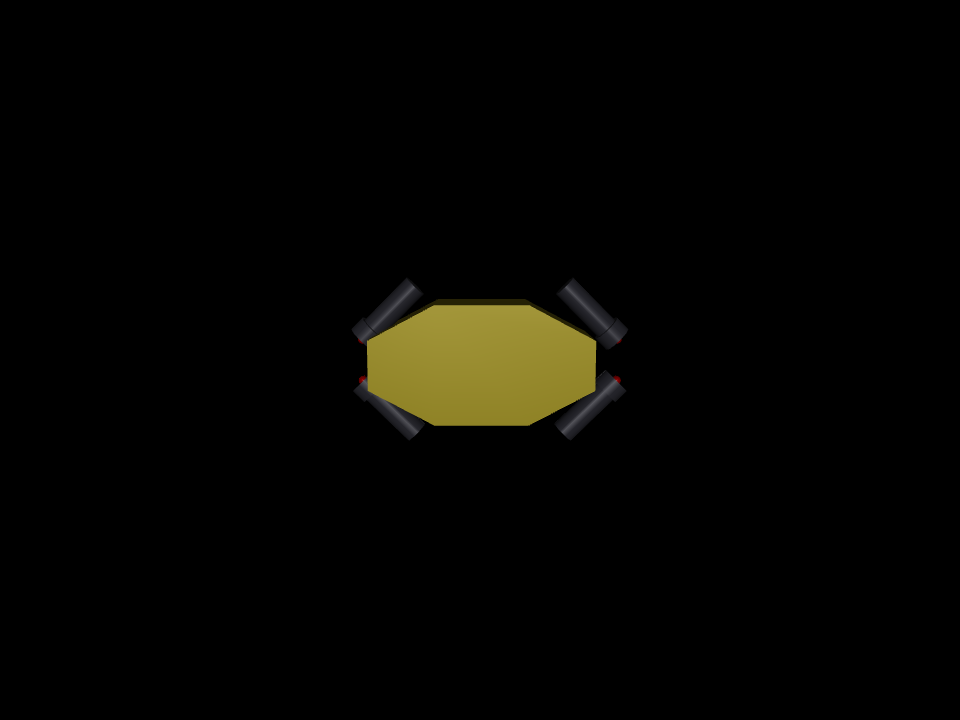
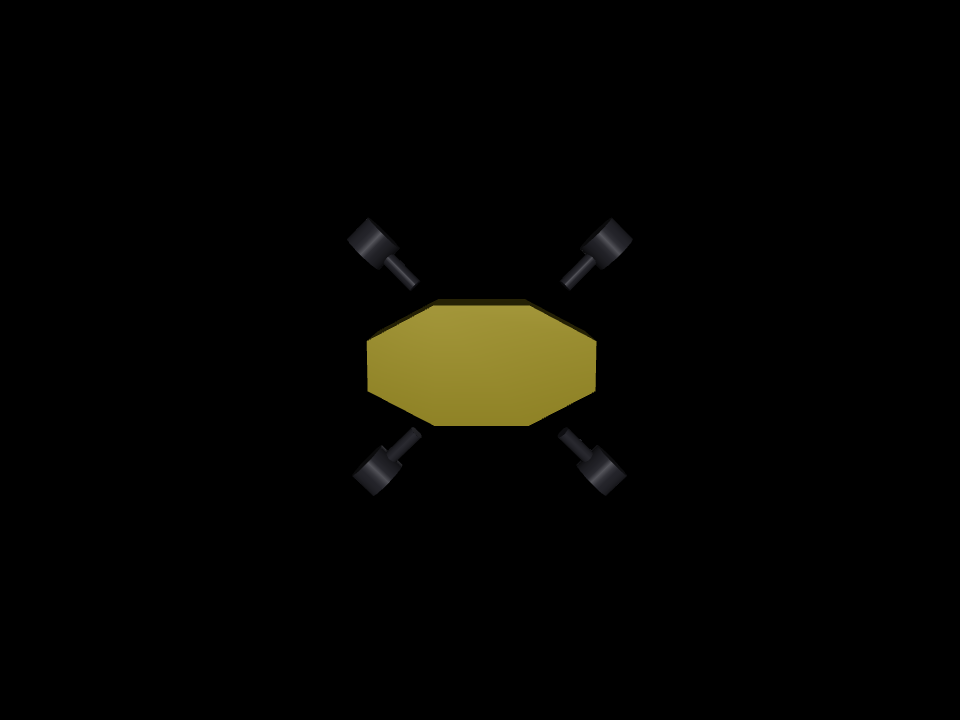
sim: faithful azimuth-thruster remodel (T-shaped ducted prop)
Verified the real mechanism against sinsei_umiusi_control's FeedForward
allocation (phi = atan(f_v/f_h)): the servo tilts each thruster's thrust
between HORIZONTAL tangential (servo=0) and VERTICAL (servo=+90, up); the
horizontal component drives surge/sway/yaw, the vertical drives heave/roll/
pitch (all f_h feed yaw equally -> horizontal dir is tangential, not radial).

Remodel from the CAD (thruster_link.stl inspected; placement.txt joints):
- Each thruster body at its measured servo joint; hinge axis = the mounting ARM
  (joint->prop, ~0.15 m, 45deg outboard + ~7deg up), sign chosen so +servo=up.
- T-shape primitives: an arm cylinder to the prop + a ducted-prop barrel
  perpendicular (along the neutral tangential thrust). Thrust site at the prop.
- Per-thruster neutral thrust_axis (tangential horizontal) in config; simulator
  applies thrust per-unit (rotated by the servo via the body frame).
- validate_sim thrust/servo checks updated to the new geometry; still 8/8.

NOTE: the thrust->motion mapping changed, so existing policies (att_v2) must be
retrained on this model.

diff --git a/tools/validate_sim.py b/tools/validate_sim.py
@@ -180,31 +180,27 @@ def check_drag(sim, rep):
 
 
 def check_thrust_direction(sim, rep):
-    """Each thruster at neutral servo pushes horizontally along its configured mounting dir."""
-    thrust_axis = np.array(sim.cfg["thrusters"]["thrust_axis"], dtype=float)
-    units = sim.cfg["thrusters"]["units"]
+    """Each thruster at neutral servo (=0) pushes horizontally along its neutral (tangential) axis."""
     base_v = _settle_velocity(sim, np.zeros(8), steps=3)  # buoyancy/gravity baseline to subtract
 
     all_ok = True
     lines = []
-    for k, u in enumerate(units):
+    for k in range(4):
         act = np.zeros(8)
         act[4 + k] = 0.5  # fire only thruster k forward, servos at neutral (0)
         v = _settle_velocity(sim, act, steps=3) - base_v  # isolate the thrust contribution
         speed = np.linalg.norm(v)
-        # Expected world direction from config: neutral yaw about +Y applied to the thrust axis.
-        expect = _rot_y(u["neutral_deg"]) @ thrust_axis
-        expect /= np.linalg.norm(expect)
+        # At servo=0 the body is upright, so the world thrust dir is the configured neutral axis.
+        expect = sim.thrust_axes[k] / np.linalg.norm(sim.thrust_axes[k])
         obs = v / speed if speed > _EPS else v
         align = float(obs @ expect)
         horizontal = abs(v[1]) < 0.25 * speed if speed > _EPS else False
         ok = speed > _EPS and align > _ALIGN and horizontal
         all_ok &= ok
-        lines.append(f"id{u['id']} (neutral {u['neutral_deg']:+.0f}°): "
-                     f"align={align:+.2f}, |Δv|={speed:.3f}, dir={np.round(obs, 2)}")
-    rep.check("thrust_dir: neutral thrust horizontal along mounting dir", all_ok,
-              "all 4 thrusters match configured neutral direction")
-    rep.note("thrust direction per unit (observed vs configured neutral_deg)", lines)
+        lines.append(f"id{k + 1}: align={align:+.2f}, |Δv|={speed:.3f}, dir={np.round(obs, 2)}")
+    rep.check("thrust_dir: neutral thrust horizontal (tangential) per unit", all_ok,
+              "all 4 thrusters match configured neutral thrust_axis")
+    rep.note("thrust direction per unit (observed vs configured neutral thrust_axis)", lines)
 
 
 def check_servo_tilt(sim, rep):
@@ -219,12 +215,11 @@ def check_servo_tilt(sim, rep):
     rep.check("servo: tracks commanded angle", track_ok,
               f"cmd {np.degrees(target):.0f}° -> {np.round(np.degrees(servo), 1)}°")
 
-    # Direction: with a positive servo, the world thrust axis of each thruster gains +Y (up).
-    thrust_axis = np.array(sim.cfg["thrusters"]["thrust_axis"], dtype=float)
+    # Direction: with a positive servo, each thruster's world thrust axis gains +Y (tilts up).
     up_ok = True
     lines = []
     for k, bid in enumerate(sim.thr_ids):
-        y_up = float((sim.data.xmat[bid].reshape(3, 3) @ thrust_axis)[1])
+        y_up = float((sim.data.xmat[bid].reshape(3, 3) @ sim.thrust_axes[k])[1])
         up_ok &= y_up > 0.0
         lines.append(f"thruster_{k + 1}: thrust·ŷ = {y_up:+.2f} (want > 0 for +servo)")
     rep.check("servo: +command tilts thrust UP (+Y)", up_ok, "positive servo -> upward thrust")

diff --git a/sim/simulator.py b/sim/simulator.py
@@ -55,7 +55,9 @@ class UmiusiSimulator:
         self.servo_range_rad = np.radians(max(abs(v) for v in t["servo_range_deg"]))
         self.servo_slew_rad = np.radians(t["servo_slew_deg_per_s"])
         self.thrust_per_cmd = float(t["thrust_per_cmd"])
-        self.thrust_axis = np.array(t["thrust_axis"], dtype=float)
+        # Per-thruster neutral thrust direction (thruster body frame). The MJCF servo hinge (about
+        # the mounting arm) rotates the body, so this axis, carried by the body, tilts with the servo.
+        self.thrust_axes = np.array([u["thrust_axis"] for u in t["units"]], dtype=float)
 
         # Indices
         self.base_id = self.model.body("base_link").id
@@ -139,7 +141,7 @@ class UmiusiSimulator:
         # Thrusters: thrust along the (servo-rotated) local axis, applied at each tip site.
         for k in range(4):
             bid, sid = self.thr_ids[k], self.site_ids[k]
-            f_thr = thr.thrust_to_world(self.thrust_mag[k], self.thrust_axis, d.xmat[bid])
+            f_thr = thr.thrust_to_world(self.thrust_mag[k], self.thrust_axes[k], d.xmat[bid])
             mujoco.mj_applyFT(m, d, f_thr, zero3, d.site_xpos[sid], bid, d.qfrc_applied)
 
     # -- observation -----------------------------------------------------------
